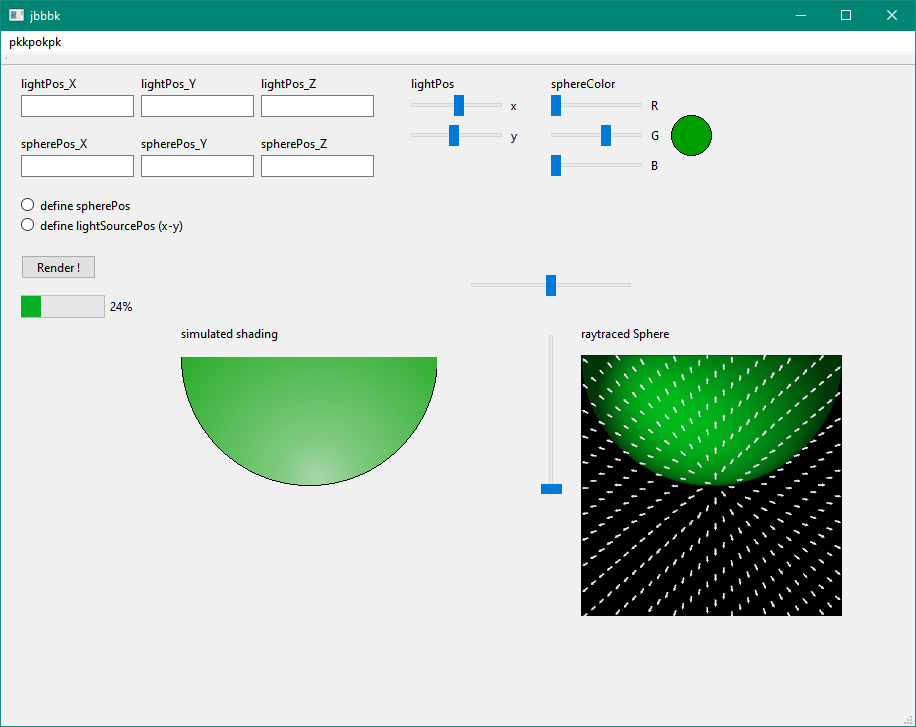
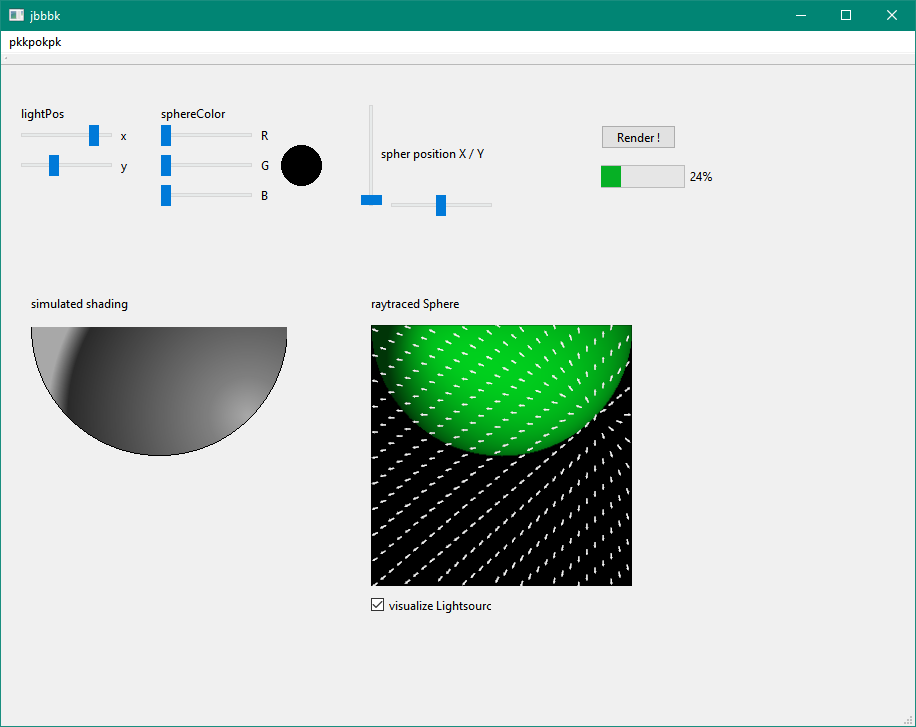
use lightsource position set from within GUI for shading the raytraced sphere

diff --git a/QtWidget_VtkSandbox.cpp b/QtWidget_VtkSandbox.cpp
@@ -113,9 +113,11 @@ void QtWidget_VtkSandbox::onRenderButtonClicked()
 {
     //todo: would(nt) it be better to have this as a static function? -> think of a nicer way to actually trigger the rendering
     TDD_Raytracer raytracer{};
-    //todo: use the values from the UI instead of hardcoded values!
-    constexpr float light_x{ 256.0 }, light_y{ 256.0 }, light_z{ -64.0 };
+    //todo: get rid of magic number used for scaling the sliderPos wrt to the actual light position used for the rendering
+    const float light_x{ float(ui.lightPosSliderX->value() *2.0) }, light_y{ float(ui.lightPosSliderY->value() * 2.0) }, light_z{ -64.0 };
     //todo: pass the sphere position parameter from the gui to this function
+    std::cout << "lightSourcePos X: " << ui.lightPosSliderX->value() << "\n";
+    std::cout << "lightSourcePos Y: " << ui.lightPosSliderY->value() << "\n";
 
     raytracer.drawSphereWithPhongShading(light_x, light_y, light_z, "renderedImage", false);
 
@@ -163,9 +165,11 @@ void QtWidget_VtkSandbox::onRenderButtonClicked()
     imageData_VectorField->AllocateScalars(VTK_INT, 3);
     
     // this factor takes into account that on the raytracer side sth seems to be off when it comes to placing the lightsource
-    constexpr auto cameraPosCorrectionFactor{ 2 };
-    constexpr auto lightXPos{ light_x / cameraPosCorrectionFactor };
-    constexpr auto lightYPos{ light_y / cameraPosCorrectionFactor };
+    //todo: get rid of scaling magicnumber
+    constexpr auto cameraPosCorrectionFactor{ 2.0 };
+    const auto lightXPos{ light_x / cameraPosCorrectionFactor };
+    //todo: get rid of "coordinate-flip" magic number
+    const auto lightYPos{ 256 - (light_y / cameraPosCorrectionFactor) };
     constexpr auto glyphScalingFactor{ 7 };
 
     int* fGImageDims = imageData_VectorField->GetDimensions();
